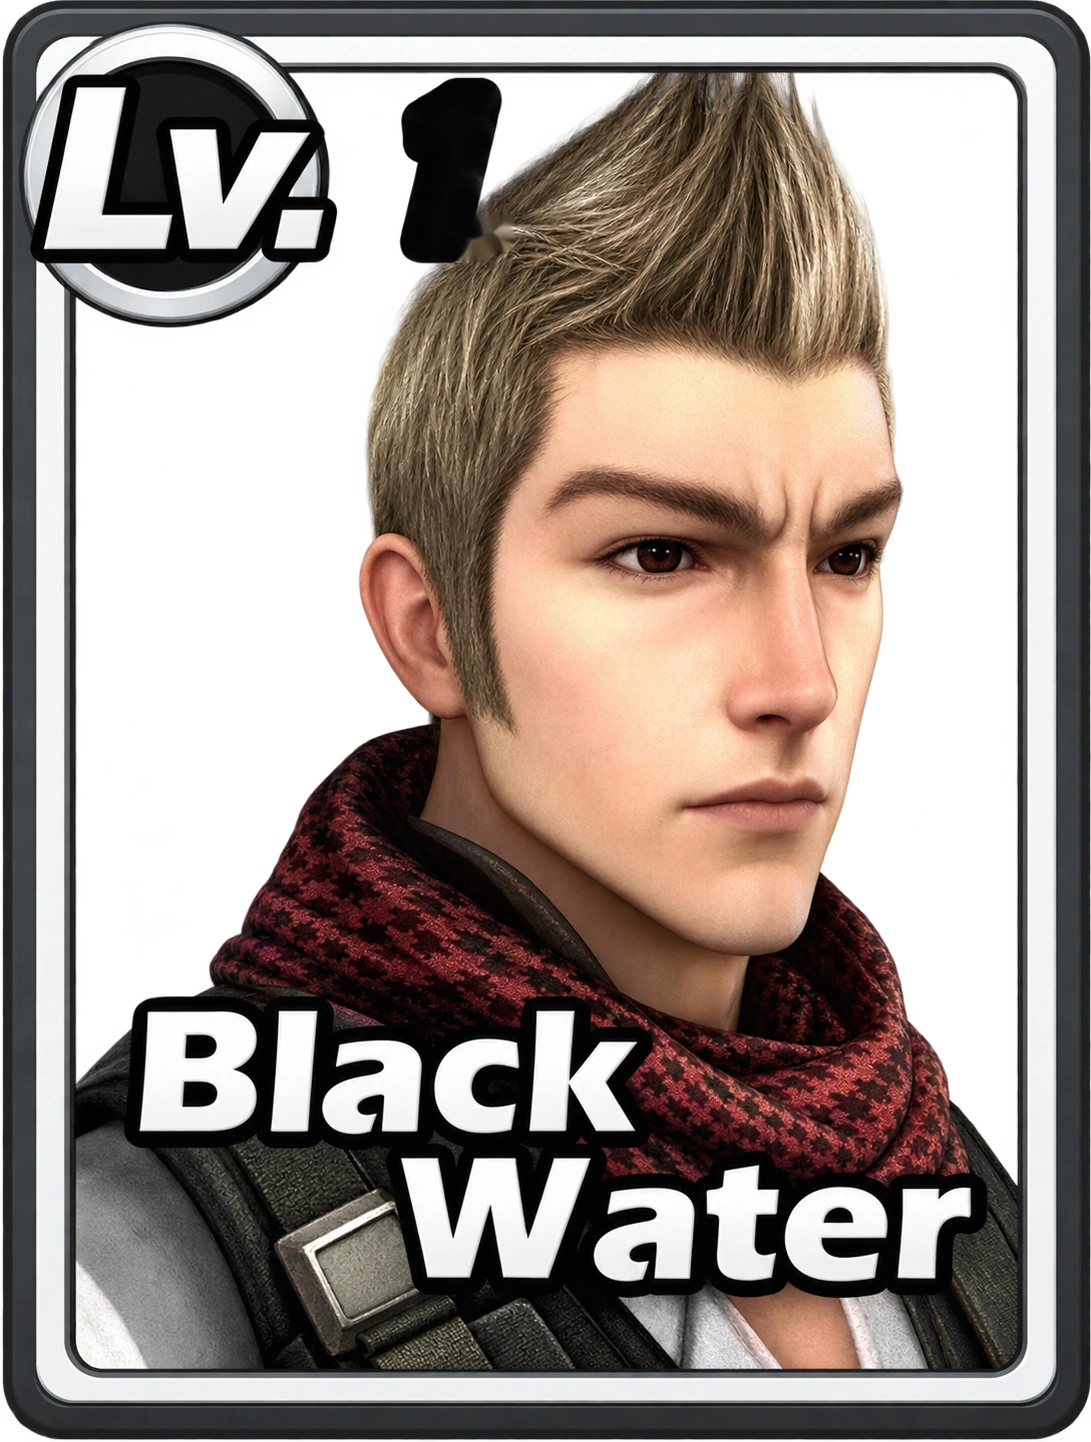
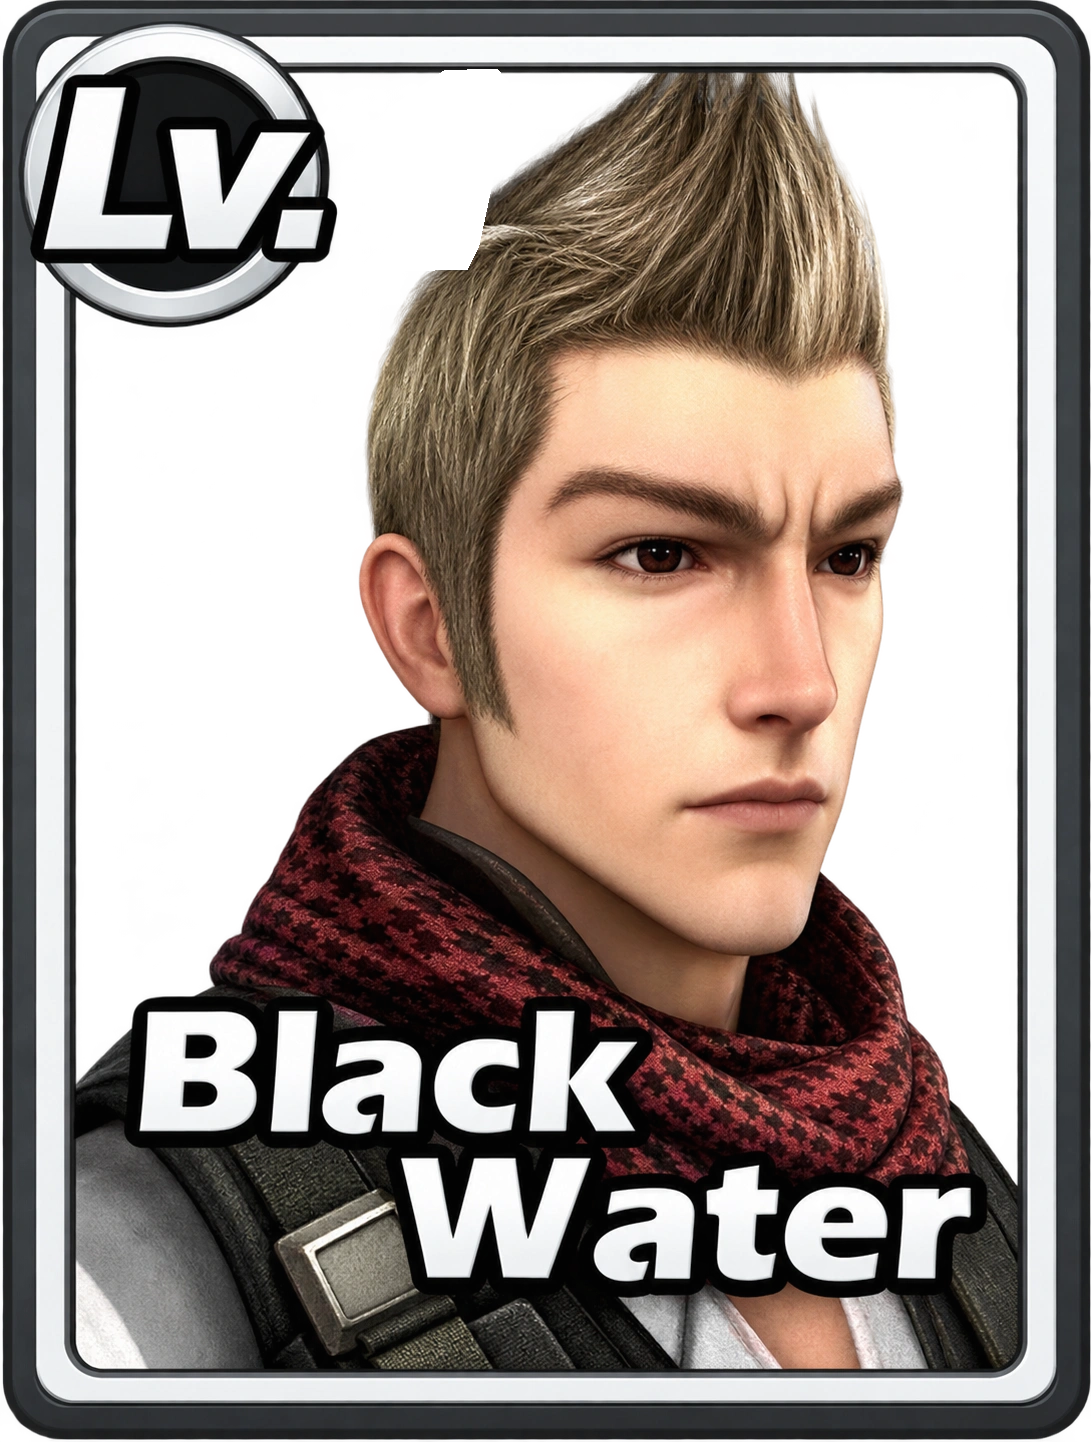
Remove baked character digit outlines and stale image cache
Clear the entire original numeric silhouette including its alpha channel while preserving Lv lettering and names.

Changed region(s): [[0.3428, 0.0312, 0.4675, 0.1872]]

diff --git a/sanggi-soldier.html b/sanggi-soldier.html
@@ -34,7 +34,7 @@
       <div id="primary" class="equipment-slot" aria-label="주 무기 K2"><div class="equipment-card" data-grade="D"><img class="grade-frame" src="soldier-grade-d.webp" alt="D급"><span class="weapon-level">Lv.1</span><img class="weapon-image" src="soldier-weapon-k2.webp" alt="K2"><span class="weapon-name">K2</span></div></div>
       <div id="secondary" class="equipment-slot" aria-label="보조 무기 M870"><div class="equipment-card" data-grade="D"><img class="grade-frame" src="soldier-grade-d.webp" alt="D급"><span class="weapon-level">Lv.1</span><img class="weapon-image" src="soldier-weapon-shotgun.webp" alt="M870"><span class="weapon-name">M870</span></div></div>
       <div id="melee" class="equipment-slot" aria-label="근접 무기 M9"><div class="equipment-card" data-grade="D"><img class="grade-frame" src="soldier-grade-d.webp" alt="D급"><span class="weapon-level">Lv.1</span><img class="weapon-image" src="soldier-weapon-stick.webp" alt="M9"><span class="weapon-name">M9</span></div></div>
-      <div id="character" class="character-card"><img src="soldier-character-black-water.webp" alt="Black Water"><span class="character-level" aria-label="레벨 1">1</span></div>
+      <div id="character" class="character-card"><img src="soldier-character-black-water.webp?v=2" alt="Black Water"><span class="character-level" aria-label="레벨 1">1</span></div>
       <p id="equipment-status" role="status">장비 정보 불러오는 중</p>
     </section>
     <div class="home-bottom-mark"><span>◆</span> SANGGI SOLDIER <small>장비를 선택하고 출전하세요</small></div>
@@ -121,6 +121,6 @@
     <p class="shop-notice">캐릭터 특기는 소개 문구입니다. 회피·체력 보너스와 새 3D 모델은 아직 적용되지 않습니다.</p>
     <p id="shop-status" role="status"></p>
   </dialog>
-  <script type="module" src="soldier.js?v=26"></script>
+  <script type="module" src="soldier.js?v=27"></script>
 </body>
 </html>

diff --git a/soldier.js b/soldier.js
@@ -1,9 +1,9 @@
 import * as THREE from './vendor/three.module.min.js';
 import { createSoldierModel, loadCharacterTextures } from './soldier-character.mjs?v=4';
 import { createHomeViewer } from './soldier-home-viewer.mjs?v=13';
-import { createEquipmentInventory, inventoryWeapons, INVENTORY_LIMIT } from './soldier-inventory.mjs?v=4';
-import { CHARACTERS, characterCard } from './soldier-characters.mjs?v=1';
-import { createShop } from './soldier-shop.mjs?v=1';
+import { createEquipmentInventory, inventoryWeapons, INVENTORY_LIMIT } from './soldier-inventory.mjs?v=5';
+import { CHARACTERS, characterCard } from './soldier-characters.mjs?v=2';
+import { createShop } from './soldier-shop.mjs?v=2';
 import { WEAPONS, rankProgress, DEFAULT_LOADOUT, weaponLevel, weaponLevelLabel, weaponUpgradeCost, DEFAULT_CONTROLS, COVER, SPAWNS, blocked, direction, coverDistance, targetDistance, settingsFrom } from './soldier-core.mjs?v=3';
 
 const $ = id => document.getElementById(id);

diff --git a/SANGGI-SOLDIER.md b/SANGGI-SOLDIER.md
@@ -63,6 +63,8 @@
 
 레벨 숫자는 원본 `Lv.`와 맞춘 굵은 기울임 글꼴과 검은 외곽선을 사용합니다. 글자 크기와 외곽선 두께 모두 카드 폭에 비례하며, 외곽선을 먼저 그리고 흰 글자를 위에 그려 작은 인벤토리에서도 숫자가 뭉개지지 않습니다. 상점 초상화에는 레벨을 표시하지 않습니다.
 
+이미지의 기존 숫자는 흰색 내부뿐 아니라 검은 외곽선과 해당 투명도까지 제거하여, 별도 숫자 옆에 원본 숫자의 검은 잔상이 남지 않도록 합니다. 수정한 캐릭터 이미지에는 캐시 버전을 붙여 이전 이미지가 재사용되지 않게 합니다.
+
 ## 상점 및 캐릭터 보유
 
 홈 오른쪽 아래와 장비 화면의 상점 버튼으로 참조 사진 방식의 상품 화면을 엽니다. 일반보급함은 3보석, 고급보급함은 30보석이며 제공된 참조 사진의 보급함 그림을 사용합니다. 획득 확률과 중복 무기 처리 정책이 아직 정해지지 않았으므로 보급함 구매는 비활성화합니다. 나머지 미제공 상품 분류는 준비 중으로 표시합니다.
